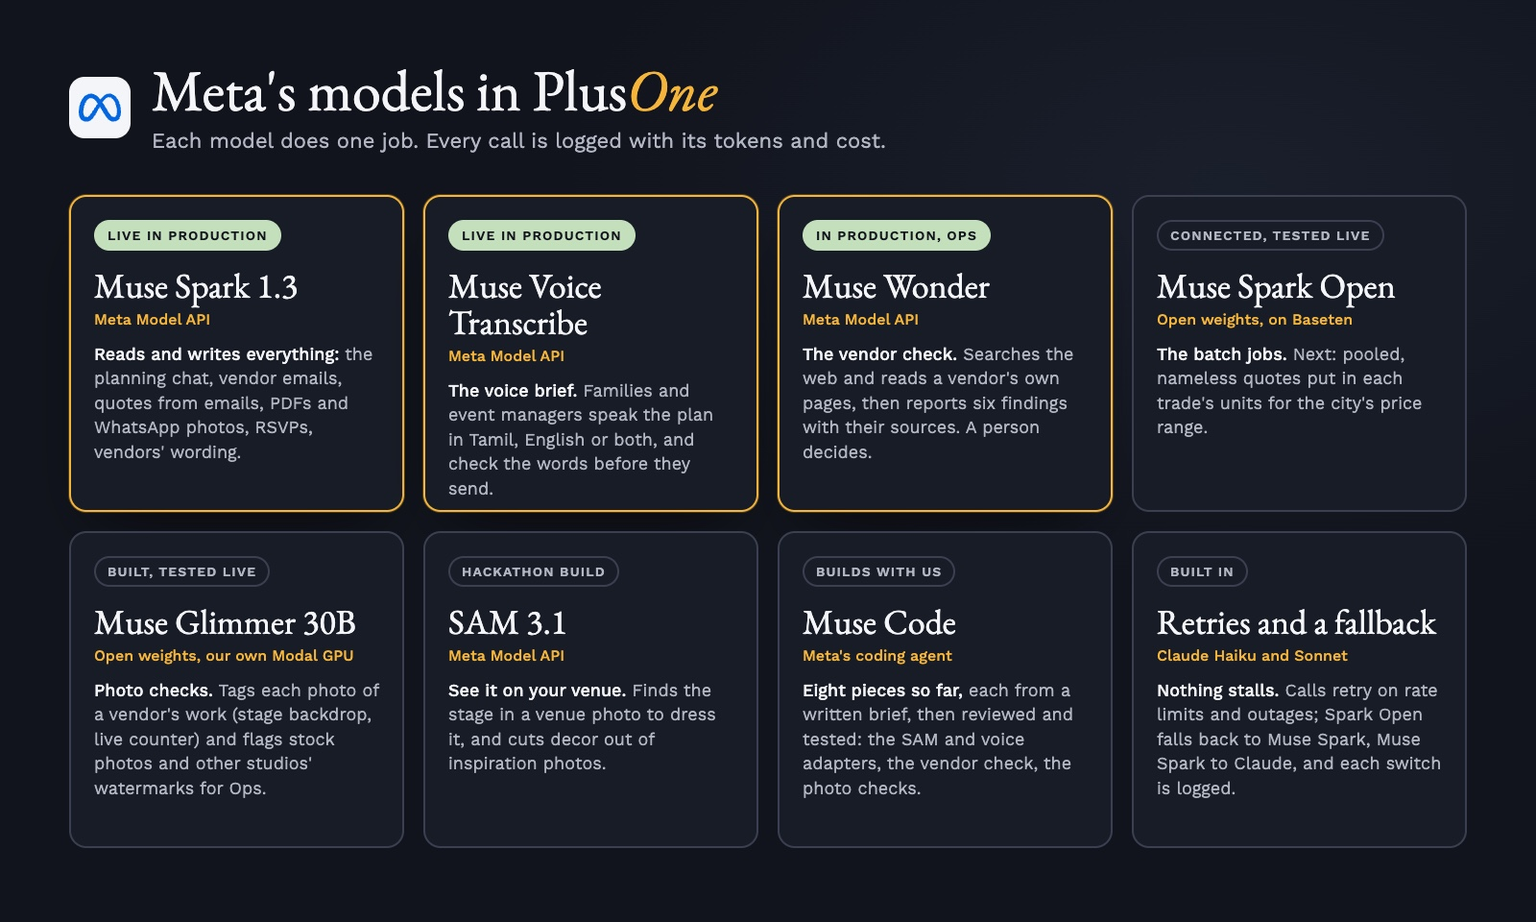
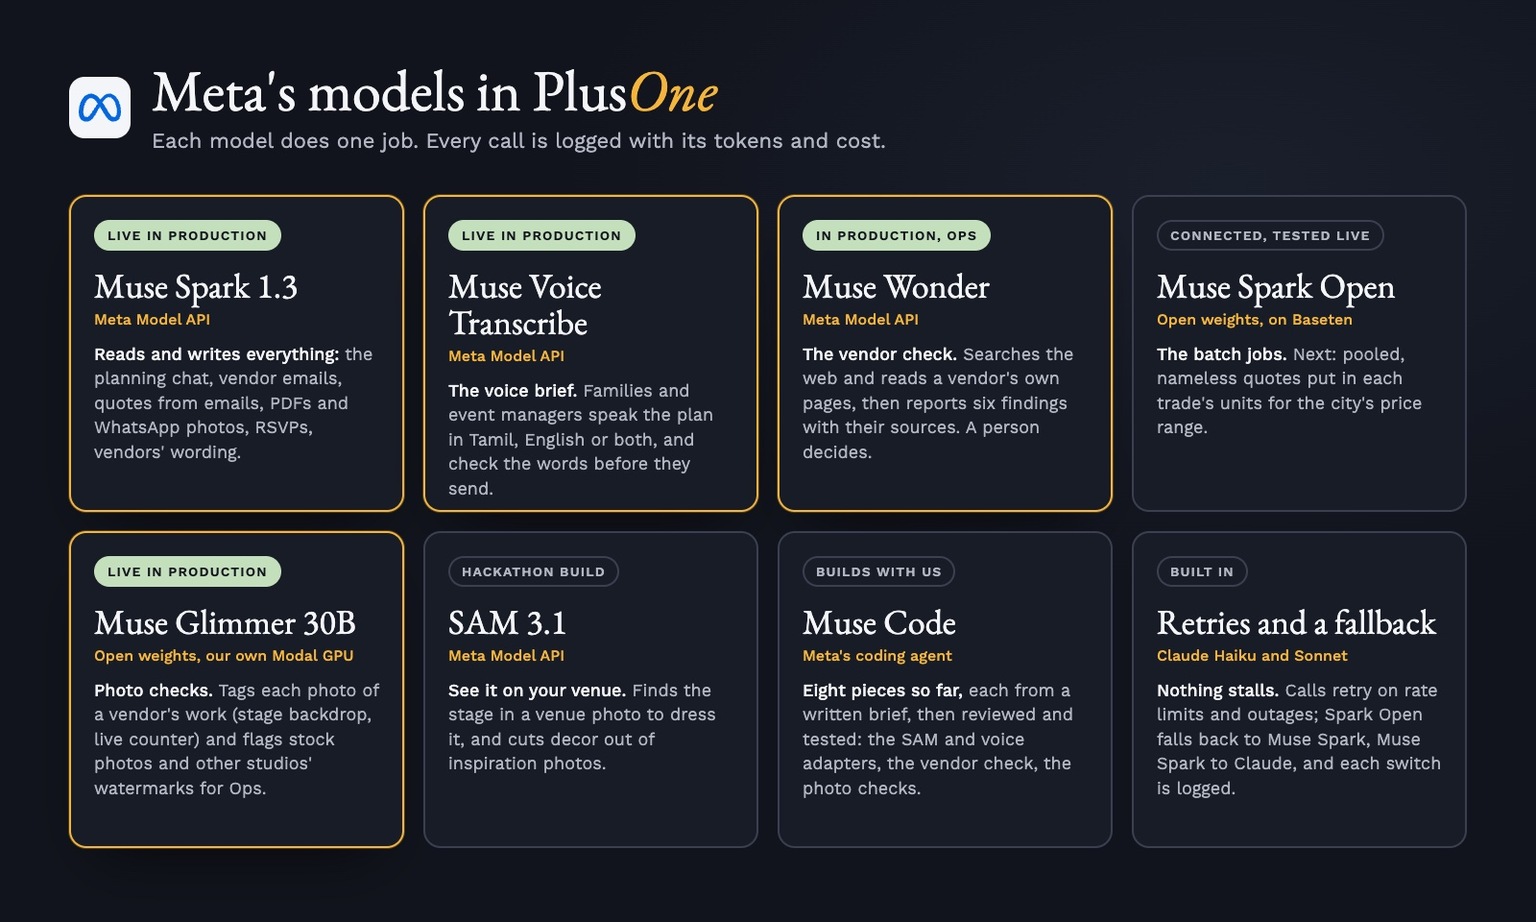
README, devlog and the models card: Glimmer's photo checks are live
The photo checks are in production: on the live vendors' demo a
caterer's photo was checked in about six seconds and tagged plated
service and serving staff. The card shows Glimmer live, the README's
rows say so with that run, and the test count reads 622. The devlog
records the four production deploys, the forced-JSON failure on
production and its fix, and the picker bug found by walking the live
site.

Changed region(s): [[0.0312, 0.5625, 0.25, 0.6562], [0.0625, 0.9062, 0.25, 0.9375]]

diff --git a/assets/src/meta-models.html b/assets/src/meta-models.html
@@ -60,8 +60,8 @@
       <div class="host">Open weights, on Baseten</div>
       <div class="what"><b>The batch jobs.</b> Next: pooled, nameless quotes put in each trade's units for the city's price range.</div>
     </div>
-    <div class="m">
-      <span class="tag">Built, tested live</span>
+    <div class="m live">
+      <span class="tag">Live in production</span>
       <div class="name">Muse Glimmer 30B</div>
       <div class="host">Open weights, our own Modal GPU</div>
       <div class="what"><b>Photo checks.</b> Tags each photo of a vendor's work (stage backdrop, live counter) and flags stock photos and other studios' watermarks for Ops.</div>

diff --git a/README.md b/README.md
@@ -15,7 +15,7 @@
 ![Event](https://img.shields.io/badge/event-Meta_Global_AI_Developer_Hackathon-f4b53a?style=flat-square&labelColor=11141c)
 ![Track](https://img.shields.io/badge/track-Startup-f4b53a?style=flat-square&labelColor=11141c)
 ![Status](https://img.shields.io/badge/status-working_end_to_end-c4dfbc?style=flat-square&labelColor=11141c)
-![Tests](https://img.shields.io/badge/tests-621_passing-c4dfbc?style=flat-square&labelColor=11141c)
+![Tests](https://img.shields.io/badge/tests-622_passing-c4dfbc?style=flat-square&labelColor=11141c)
 [![License](https://img.shields.io/badge/license-FSL--1.1--ALv2-b3b7c3?style=flat-square&labelColor=11141c)](LICENSE.md)
 
 <table align="center">
@@ -81,7 +81,7 @@ PlusOne began as a wedding planner and placed second at Convex's All Gas hackath
 
 | The theme asks | PlusOne's answer |
 |---|---|
-| **Bring Meta's models into your domain** | Event planning, on Meta's models end to end. Muse Spark reads replies, quotes and PDFs that mix Tamil and English into the same lines, and Muse Voice Transcribe hears a plan spoken in Tamil, English or both, both live today. Muse Wonder checks a vendor's evidence in Ops, and Muse Spark Open, open weights on Baseten, is connected for the batch jobs. Muse Glimmer, open weights on our own Modal GPU, checks and tags photos of vendors' work (built and tested live on dev). Being added during the hackathon: SAM 3.1 on the customer's own venue photo |
+| **Bring Meta's models into your domain** | Event planning, on Meta's models end to end. Muse Spark reads replies, quotes and PDFs that mix Tamil and English into the same lines, and Muse Voice Transcribe hears a plan spoken in Tamil, English or both, both live today. Muse Wonder checks a vendor's evidence in Ops, and Muse Spark Open, open weights on Baseten, is connected for the batch jobs. Muse Glimmer, open weights on our own Modal GPU, checks and tags photos of vendors' work, live in production. Being added during the hackathon: SAM 3.1 on the customer's own venue photo |
 | **A problem you know firsthand** | The founders know it from planning events in their own families: vendors spread across calls, chats and spreadsheets, quotes that can't be compared, charges that turn up later. PlusOne began as a planner for exactly that |
 | **Free up time and mental space** | PlusOne does the legwork: it searches, writes from the event's own inbox, chases vendors up to three times, reads every reply and PDF into one unit and says what each quote leaves out. The host only decides |
 | **Make something possible that wasn't before** | A family planning a birthday gets what only a wedding with a planner got before: offers in the same lines, missing charges flagged and the market range. An event manager gets the same for every client's event, without chasing each vendor by phone. A vendor with no website gets found and answers briefs. A plan can be spoken in Tamil, and the decor seen on the real hall before anyone pays |
@@ -101,7 +101,7 @@ PlusOne began as a wedding planner and placed second at Convex's All Gas hackath
 | **See it on your venue:** tap the stage in a venue photo and see the decor on the real space | SAM 3.1 | Adapter built and tested (`convex/lib/sam.ts`); the view by 1 Nov |
 | **PlusOne Partner:** vendors register, price packages on the standard sheet and answer a customer's brief | Voice sign-up: Muse Voice Transcribe, Muse Spark | Live, 28 Oct: its own sign-in, joining or claiming a listing, prices and offers on the standard sheet in each trade's own units with what's in the price, offers landing in the customer's Compare, their wording tidied before customers see it ("rs.500/-" becomes "₹500", never a changed number, the vendor chooses), and a vendors' demo of its own, separate from the customers'; its own address, partner.plusoneevents.site, built and going live; voice sign-up by 1 Nov |
 | **PlusOne Ops:** a verification agent gathers evidence about a vendor, with links; a person decides | Muse Wonder | Review queue with its checklist, evidence and decisions live 28 Oct; the Muse Wonder check built into it 28 Oct ("Check this vendor", `convex/marketplace/checks.ts`), first live run next |
-| **Photos of a vendor's work, checked:** real work or stock, another business's watermark, faces, and tags from a fixed list for the trade; flags go to Ops | Muse Glimmer 30B (open weights, our own Modal endpoint), Muse Spark as fallback | Built and tested live on dev, 29 Oct; production next |
+| **Photos of a vendor's work, checked:** real work or stock, another business's watermark, faces, and tags from a fixed list for the trade; flags go to Ops | Muse Glimmer 30B (open weights, our own Modal endpoint), Muse Spark as fallback | Live in production, 29 Oct |
 | WhatsApp and calling vendors from the app | | Building, by 1 Nov |
 
 Before the hackathon, PlusOne already planned an event from a conversation, found vendors, wrote to them from the event's inbox and put their quotes in one unit, on Claude. [Repository](#repository) gives the exact line between the two.
@@ -128,7 +128,7 @@ Every fee is disclosed. Fair pricing here means informed and comparable: PlusOne
 
 ## Meta's models in PlusOne
 
-<img src="assets/meta-models.jpg" width="100%" alt="Meta's models in PlusOne: Muse Spark 1.3 and Muse Voice Transcribe live in production; Muse Wonder in production in Ops; Muse Spark Open connected on Baseten and tested live; Muse Glimmer 30B checking vendors' photos on our own Modal GPU, tested live; SAM 3.1 being built during the hackathon; Muse Code building pieces of the app; retries and a fallback built in">
+<img src="assets/meta-models.jpg" width="100%" alt="Meta's models in PlusOne: Muse Spark 1.3 and Muse Voice Transcribe live in production; Muse Wonder in production in Ops; Muse Spark Open connected on Baseten and tested live; Muse Glimmer 30B checking vendors' photos on our own Modal GPU, live in production; SAM 3.1 being built during the hackathon; Muse Code building pieces of the app; retries and a fallback built in">
 
 | Model | Where it works in PlusOne | Status |
 |---|---|---|
@@ -137,7 +137,7 @@ Every fee is disclosed. Fair pricing here means informed and comparable: PlusOne
 | **SAM 3.1** | Cuts the stage, florals and lights out of inspiration photos for the decorators' brief, and finds the stage in a venue photo to dress it | Adapter built and tested (`convex/lib/sam.ts`: one concept or up to 16 tapped objects, masks read with `@meta-sam/parser`); the venue view is next |
 | **Muse Wonder** | The verification agent in PlusOne Ops: checks a vendor's profile against their own site and public pages, with links; a person decides | Built into Ops, 28 Oct (`convex/lib/wonder.ts`, `convex/marketplace/checks.ts`): web search and page reads, six findings, a source kept only if the run saw it; first live run next |
 | **Muse Spark Open** (open weights, on Baseten) | Batch jobs over quotes and listings: first, turning pooled quotes into the standard sheet's units for the city's price range; then seeding the vendor directory from public listings | Connected and tested live, 29 Oct (`convex/lib/sparkOpen.ts`): a photographer's shorthand quote read into the right numbers in 2.8 s; a call Baseten can't answer goes to Muse Spark. Its first feature is next |
-| **Muse Glimmer 30B** (open weights, on our own Modal endpoint) | Checks each photo a Partner vendor adds of their work: real event work or stock, another business's name or watermark, faces, anything unsafe, what it shows, and up to five tags from a fixed list for the trade (stage backdrop, entrance arch, banana-leaf service, live counter); flags go to Ops, where a person decides | Built and tested live on dev, 29 Oct (`convex/lib/glimmer.ts`, `convex/marketplace/photos.ts`): one H200 that scales to zero; a photo read in 5.5 s warm, after a cold start of about 3.6 minutes; a check it can't finish goes to Muse Spark. Production next |
+| **Muse Glimmer 30B** (open weights, on our own Modal endpoint) | Checks each photo a Partner vendor adds of their work: real event work or stock, another business's name or watermark, faces, anything unsafe, what it shows, and up to five tags from a fixed list for the trade (stage backdrop, entrance arch, banana-leaf service, live counter); flags go to Ops, where a person decides | Live in production, 29 Oct (`convex/lib/glimmer.ts`, `convex/marketplace/photos.ts`): one H200 that scales to zero; on the live vendors' demo a caterer's photo was checked in about 6 s warm and tagged plated service and serving staff, after a cold start of about 3.6 minutes; a check it can't finish goes to Muse Spark |
 | **Muse Code** (Meta's coding agent) | Builds bounded pieces of PlusOne from a written brief, which are then reviewed and tested before they are committed; eight sessions so far: the SAM 3.1 adapter, the voice brief (its audio encoder, the Voice Transcribe adapter and the brief in the app), the Muse Wonder vendor check and its place in Ops, the tidy for vendors' wording, and the Glimmer photo checks. Every session is logged in [`devlog.md`](devlog.md#muse-code) | In use since 27 Oct 2026 |
 
 **See it at work:** in any event, the **Under the hood** button in the top bar lists every step PlusOne ran for that event, with the Meta model that did it, how long it took and what it cost. In the demo it opens on a recorded run: Muse Spark reading the three caterers' replies into the lines Compare shows. Ask "We're now 140 people" on Today and watch a new step appear.
@@ -231,7 +231,7 @@ PlusOne Ops, at `/ops`, is the PlusOne team's side. A queue holds vendors and li
 | Muse Spark reading the demo's quotes | The three caterers' replies read on `muse-spark-1.3` in production, each right first time: Annam ₹66,150 in three lines (150 plates at ₹380, ₹6,000 service, ₹3,150 GST), priced for 150; Saapadu ₹62,000 all in for 120 with the ₹480 extra plate kept apart; Kaveri ₹54,000 plus ₹2,500 for vessels and staff, GST extra. 7.1–14.4 s each, 4,329 tokens in and 6,570 out, $0.033 in all, no fallback | 28 Oct 2026 | `npx convex run claude:readDemoQuotes`; the rows are Under the hood's recorded run |
 | Muse Voice Transcribe in production | A note spoken into the live app's Today box came back as text in the box, first try; the recording was deleted after reading | 28 Oct 2026 | By hand on app.plusoneevents.site, in the founder's own voice |
 | Muse Spark's reasoning | At `reasoning_effort: low` a one-line reply used 194 reasoning tokens; capped at 400 output tokens, reasoning took 398 and the answer came back empty. Every call site allows 16,000 | 27 Oct 2026 | Two direct Chat Completions calls |
-| Tests | 621 passed in 58 files, including the quote comparison, the standard sheet and its missing-charge rules (pinned on the guest demo's quotes), the marketplace's listings, briefs, offers and price ranges, the Meta provider switch and its fallback, Muse Spark Open on Baseten and its move to Muse Spark, the photo checks on Muse Glimmer (its retries through a cold start, the tag list, the limits and the Ops decisions), the cost record, the voice brief's limits and clean-up, the vendor check's tool loop, source rules, limits and cost on failure, the planning conversation's rules, the board's geometry, the co-pilot's route and a contrast check of every text colour in the light and dark themes | 29 Oct 2026 | `npm test` |
+| Tests | 622 passed in 58 files, including the quote comparison, the standard sheet and its missing-charge rules (pinned on the guest demo's quotes), the marketplace's listings, briefs, offers and price ranges, the Meta provider switch and its fallback, Muse Spark Open on Baseten and its move to Muse Spark, the photo checks on Muse Glimmer (its retries through a cold start, the tag list, the limits and the Ops decisions), the cost record, the voice brief's limits and clean-up, the vendor check's tool loop, source rules, limits and cost on failure, the planning conversation's rules, the board's geometry, the co-pilot's route and a contrast check of every text colour in the light and dark themes | 29 Oct 2026 | `npm test` |
 | Typecheck, app and backend | Clean | 28 Oct 2026 | `npm run typecheck` |
 | The three sample events | Each opened from `/demo` for a new visitor (the birthday, `?sample=housewarming`, `?sample=office`); eleven screens captured with 0 page errors; at phone width (390 px) the page is exactly as wide as the screen, with no sideways scroll | 25 Oct 2026 | Headless Chrome (playwright-core) against the dev server and the dev backend; these are the screenshots in this README |
 | Vendor search terms, old against new | Vendors' own websites among results kept: 9 of 27 with the new short terms against 5 of 26 with the old single sentence, for about half the credits | 20 Oct 2026 | A one-off before/after run of three briefs against Firecrawl |

diff --git a/devlog.md b/devlog.md
@@ -13,14 +13,14 @@
 - **Hosting:** Cloudflare Pages for the app; Convex (Ireland) for the backend
 - **Auth:** Clerk; Convex Auth guest sessions for the sample events
 - **External services:** AgentMail (event inboxes), Firecrawl (vendor search), Resend (app emails), PostHog (usage), Meta Model API (Muse Spark, Muse Voice Transcribe, Muse Wonder), Baseten (Muse Spark Open), Modal (our own Muse Glimmer endpoint)
-- **AI models (product):** muse-spark-1.3 (Meta Model API, Chat Completions with JSON Schema output) for every reading and writing step, live in production since 27 Oct; claude-haiku-5-5 and claude-sonnet-5-5 as the fallback when Meta can't answer; muse-voice-transcribe-1.0 for speaking the plan instead of typing it, in the app since 28 Oct (no fallback); muse-wonder-1.0 for the vendor check in Ops, in production since 28 Oct; the open-weights meta-models/muse-spark-open-1026 on Baseten, connected and tested live 29 Oct, falling back to Muse Spark. the open-weights Muse Glimmer 30B on our own Modal endpoint (one H200) for checking and tagging vendors' photos, built and tested live on dev 29 Oct, falling back to Muse Spark. Coming: SAM 3.1.
+- **AI models (product):** muse-spark-1.3 (Meta Model API, Chat Completions with JSON Schema output) for every reading and writing step, live in production since 27 Oct; claude-haiku-5-5 and claude-sonnet-5-5 as the fallback when Meta can't answer; muse-voice-transcribe-1.0 for speaking the plan instead of typing it, in the app since 28 Oct (no fallback); muse-wonder-1.0 for the vendor check in Ops, in production since 28 Oct; the open-weights meta-models/muse-spark-open-1026 on Baseten, connected and tested live 29 Oct, falling back to Muse Spark. the open-weights Muse Glimmer 30B on our own Modal endpoint (one H200) for checking and tagging vendors' photos, live in production 29 Oct, falling back to Muse Spark. Coming: SAM 3.1.
 - **AI models (build):** Claude Code with claude-opus-5-5 (and its subagents); Muse Code (Everyday plan, from 27 Oct), every session logged under Muse Code below
 - **Track:** Startup ("open to technical founders building a product"): the rules let a startup build on its existing product, provided what is new during the event is clearly identified, which this log and the cutoff above do
-- **Meta models used:** Muse Spark 1.3 (live); Muse Voice Transcribe (live in production 28 Oct: speak the plan or a change in Tamil, English or both); SAM 3.1 (adapter built 27 Oct); Muse Wonder (the vendor check in Ops, built and wired in 28 Oct; first live run to make); Muse Spark Open (open weights on Baseten, $100 of Baseten credit, connected and tested live 29 Oct; its first feature next); Muse Glimmer 30B (open weights on our own Modal Dedicated Endpoint, one H200, $100 of Modal credit; photo checks built and tested live on dev 29 Oct; production next); Muse Code for building
+- **Meta models used:** Muse Spark 1.3 (live); Muse Voice Transcribe (live in production 28 Oct: speak the plan or a change in Tamil, English or both); SAM 3.1 (adapter built 27 Oct); Muse Wonder (the vendor check in Ops, built and wired in 28 Oct; first live run to make); Muse Spark Open (open weights on Baseten, $100 of Baseten credit, connected and tested live 29 Oct; its first feature next); Muse Glimmer 30B (open weights on our own Modal Dedicated Endpoint, one H200, $100 of Modal credit; photo checks live in production 29 Oct); Muse Code for building
 - **Credits spent:** about $0.04 of $150 in our own measured runs: $0.0053 for the first production call (27 Oct) and $0.033 for the recorded demo run (28 Oct), plus one voice note on production (under $0.01; a note is capped at 2 minutes). Correction: this field said "none on 28 Oct" before that run. Every call is recorded in `modelCalls`, to be reconciled with Meta Billing. Partner credits, apart from the Meta key: about $0.003 of Baseten's $100 (one Spark Open check, 29 Oct); about $0.30 of Modal's $100 for Glimmer (one cold start of about 217 s of H200 and one 5.5 s check, 29 Oct)
 - **Product started:** 2026-09-15, as an entry to Convex's All Gas hackathon (placed second); built on since in private
 - **Pre-hackathon cutoff:** kickoff, 26 Oct 2026 at 9:30 PM IST. The repository's first commit, tagged `pre-hackathon` (`06fa77b`, 26 Oct 14:58 IST), is the product as it stood before the event; 11 commits that afternoon, before kickoff (`ab4d141`..`d4e1712`, 17:35–17:45 IST), are privacy and trust groundwork and are not shown as hackathon work. Everything from `608627f` (27 Oct) on is new during the hackathon
-- **Last updated:** 2026-10-29T07:15:00+05:30
+- **Last updated:** 2026-10-29T07:40:00+05:30
 
 ## Evidence
 
@@ -29,7 +29,7 @@
 | Muse Spark runs the agent | Every call site goes through `convex/lib/models.ts`; production runs `muse-spark-1.3` since 27 Oct; a production RSVP read on 27 Oct returned a correct structured answer (field notes) | partial: end-to-end runs on real events still to record |
 | SAM 3.1 turns inspiration photos into decorator briefs | none yet | missing |
 | Decor shown on the real venue | none yet | missing |
-| Open-weights models | Muse Spark Open on Baseten in the model wrapper (`convex/lib/sparkOpen.ts`, `6366fbe`): a live check read a photographer's shorthand quote into the right six numbers in 2.8 s for about $0.003 (field notes, 29 Oct); Muse Glimmer 30B photo checks (`a8112ad`, `35055fc`): one of our own decorator photos read in 5.5 s warm, tagged fresh flowers and stage backdrop, faces noted, but it called our generated image real work (field notes, 29 Oct) | partial: Spark Open connected, its first feature next; Glimmer photo checks built and tested live on dev, production next |
+| Open-weights models | Muse Spark Open on Baseten in the model wrapper (`convex/lib/sparkOpen.ts`, `6366fbe`): a live check read a photographer's shorthand quote into the right six numbers in 2.8 s for about $0.003 (field notes, 29 Oct); Muse Glimmer 30B photo checks (`a8112ad`, `35055fc`): one of our own decorator photos read in 5.5 s warm, tagged fresh flowers and stage backdrop, faces noted, but it called our generated image real work (field notes, 29 Oct) | partial: Spark Open connected, its first feature next; Glimmer photo checks done, live in production 29 Oct |
 | Muse Wonder checks a vendor before Ops verifies | `convex/lib/wonder.ts` (`3fd6b59`): web search and page reads in a tool loop, six checks with sources this run actually saw; 16 offline tests | partial: live in Ops on production (`807f727`, "Check this vendor", the findings beside the reviewer's checklist); no live run yet |
 | Credits spent per run | `modelCalls` records feature, model, tokens and list-price cost for every call; first production call $0.0053 (1,214 in, 880 out) | partial: per-feature totals still to report |
 | Screenshots of the Meta features | none yet | missing |
@@ -58,13 +58,15 @@ Muse Code is Meta's coding agent. We subscribed to the Everyday plan on 27 Oct 2
 
 ## Log
 
-### 2026-10-29 - ce338a0..35055fc (morning, in progress)
+### 2026-10-29 - ce338a0..HEAD (morning, in progress)
 - **Two open-weights models, each with its own job (Paddy's decision):** Baseten's hackathon credit arrived ($100 and up to 2M tokens a minute on Muse Spark Open) and a payment method went on Modal, so both stay. Muse Glimmer 30B on our own Modal Dedicated Endpoint will check and tag vendors' photos; Muse Spark Open on Baseten takes the batch jobs, first the city's price range from pooled quotes.
 - **Muse Spark Open connected** (`6366fbe`): a call can ask for Spark Open (`provider: "spark_open"`), which runs on Baseten with the hackathon model id `meta-models/muse-spark-open-1026` and Baseten's key; Meta's API and Baseten now share one Chat Completions body and sender. A call Baseten can't answer moves to Muse Spark, and the switch is recorded; Under the hood names it. **Measured:** on dev, a photographer's shorthand quote ("Rs.45,000/- for the event, 8 hrs coverage, 2 photographers, 400 edited photos in 3 weeks. GST extra.") came back with all six numbers right in 2.8 s, 560 tokens in and 605 out, about $0.003; Baseten honoured our JSON Schema output and the reasoning setting.
 - **Muse Glimmer endpoint:** created on Modal at 06:11 (`modal endpoint create --model meta-models/Muse-Glimmer-30B`): one H200 running SGLang, live at about 06:57; a cold start takes about 217 s.
 - **Photos of a vendor's work, checked on Muse Glimmer** (`a8112ad`, Muse Code session 8, reviewed and fixed here): a vendor adds up to 12 photos on Partner (shrunk in the browser first); each is checked in the background for real work or stock, another business's watermark, faces and anything unsafe, with up to five tags from a fixed list for the trade; flags go to a Photos panel in Ops, where a person approves or removes. A check Glimmer can't finish, or answers unreadably, goes to Muse Spark. **Measured** on dev: one of our own decorator photos came back in 5.5 s warm as valid JSON, "marigold flower garlands in a large hall", tagged fresh flowers and stage backdrop, faces noted, about $0.008 of H200 time; it called our generated image real work, so the stock check stays a flag for a person. The first attempt gave up during the cold start (four retries, 110 s), so retries now run until a seven-minute deadline (`35055fc`).
 - **README and the models card:** the card is redrawn with every model's true status (Muse Wonder in production in Ops, Spark Open connected, Glimmer and SAM being built, Muse Code), Spark Open has its own row in the tech table, and `BASETEN_API_KEY` is in the settings table.
-- **Tests:** 621 passed in 58 files; typecheck clean.
+- **Production:** deployed four times (`82bbfb8` to the picker fix), with `GLIMMER_BASE_URL` and `MODAL_PROXY_TOKEN` on the production backend. A Glimmer check run on production described a caterer's photo as "..." twice, writing its reasoning into the answer: with the JSON format forced from the first token it had nowhere to think. Fixed by asking for the shape in its instructions and requiring a real description, after which five live checks came back clean in 3–4 s and it began naming its doubts ("Unclear if this is the vendor's own past event work or a generic stock image of a kitchen").
+- **Walked live in a browser** (Playwright, 390 px and 1440 px): the vendors' demo's photo picker did nothing, because it cleared the input before reading the files, and Chrome empties that list when the input is cleared; fixed and redeployed. Then a sample caterer's photo was checked on production in about 6 s, tagged plated service and serving staff, faces noted; no sideways scroll, no console errors. `BASETEN_API_KEY` is still to go on production (nothing users see calls Spark Open yet).
+- **Tests:** 622 passed in 58 files; typecheck clean.
 
 ### 2026-10-28 - 80a23e5..de4af23
 - **The centrepiece, live:** one brief becomes comparable offers. **The standard sheet** (`convex/lib/standardSheet.ts`) sets, for each kind of vendor, the unit a quote should be priced in and every charge it should state (GST, service staff, transport, crockery and water for a caterer; electricity, AC, cleaning and overtime for a hall; and so on). Muse Spark reads each emailed quote into those lines; fixed, tested rules decide what each leaves out and say what the others charge for it ("No water line, and one other charges ₹600"). **Compare** now shows every quote and offer line by line, with each price placed in the **Chennai range** for the same unit (Value, Standard, Premium, Luxury).
